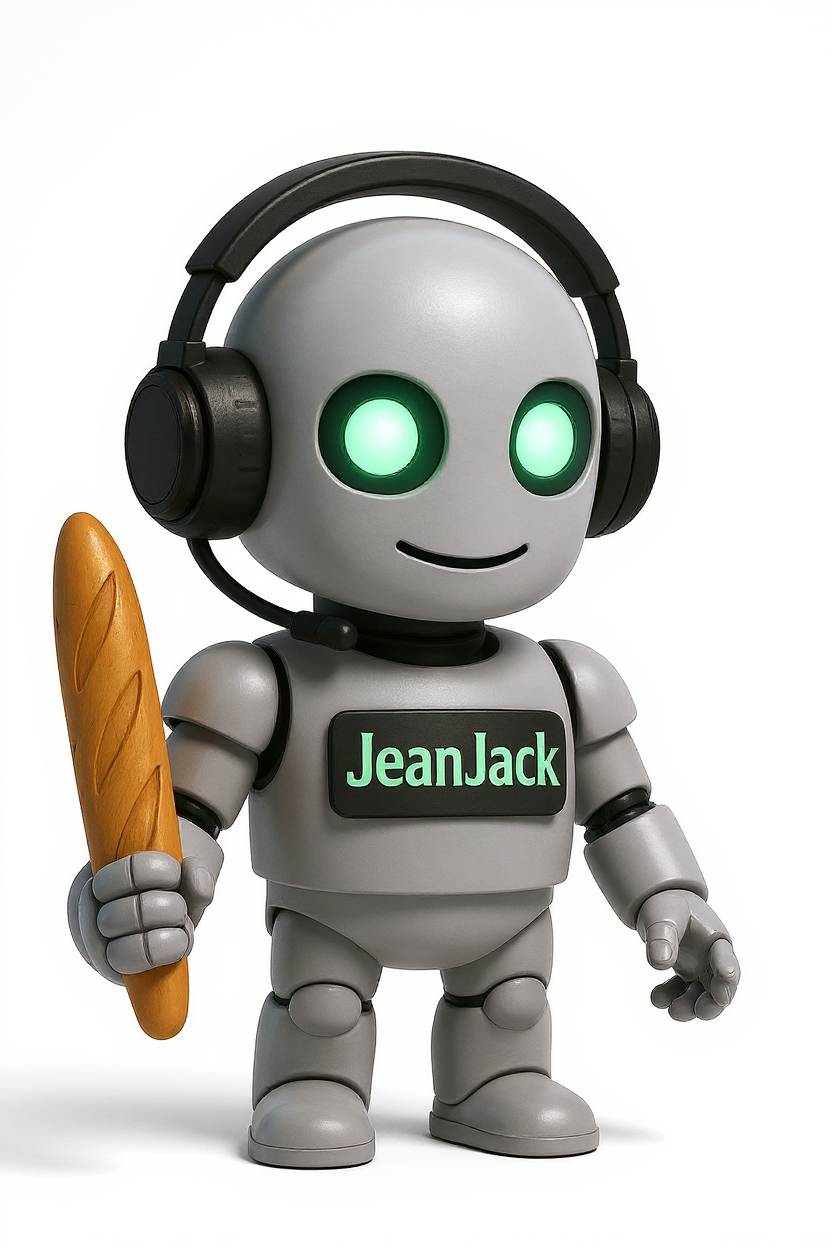
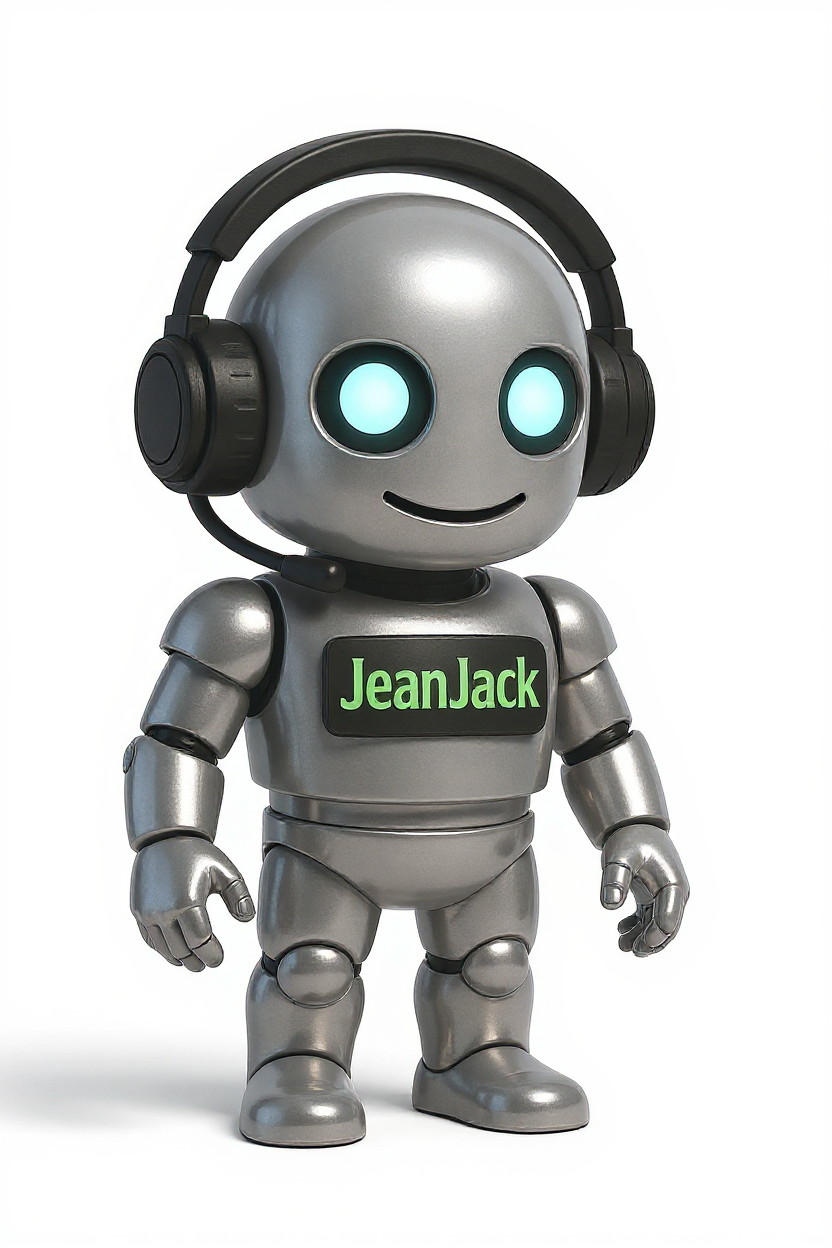
JeanJack: recolor candidates from the baguette-free v5 base + beret variant
- lesson learned and documented: editing from the original artwork
  reintroduces the baguette even with a removal instruction; the
  edit base must be a baguette-free render + an explicit
  'diverge from the original' instruction
- raw_01..raw_05 regenerated (amber/bronze, red/steel-blue, emerald/
  gold, cyan/orange, violet/champagne), all baguette-free, hands
  empty (verified)
- raw_06: beret variant (no headset), baguette-free, OCR-verified
  nameplate

diff --git a/examples/character/JeanJack/prompt.md b/examples/character/JeanJack/prompt.md
@@ -44,8 +44,13 @@ generation)
   readability;
 - **flat uniform background** — the crop step depends on it;
 - **full body visible** — the pipeline crops, the render must not;
-- **empty hands, nothing on the back** — held items (the baguette)
-  failed every generation attempt; the user dropped them;
+- **empty hands, nothing on the back, NO baguette** — held items
+  (the baguette) failed every generation attempt; the user dropped
+  them. LESSON: when the edit base is the original artwork (which
+  shows a baguette), the model copies it back even with a removal
+  instruction — always edit from a baguette-free render AND state
+  explicitly that we diverge from the original artwork (no
+  baguette, nothing held, nothing on the back);
 - **no nose** — explicitly rejected by the user;
 - **small closed-mouth smirk** — every larger smile rendered creepy;
 - **matte black headset + microphone attached to it, ending under
